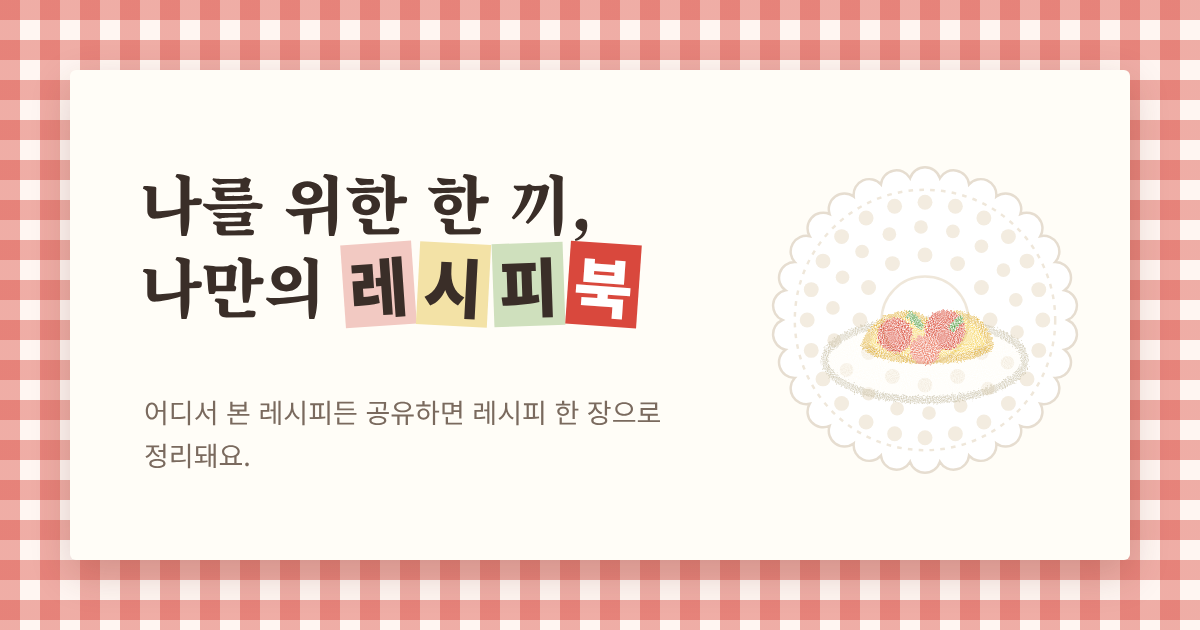
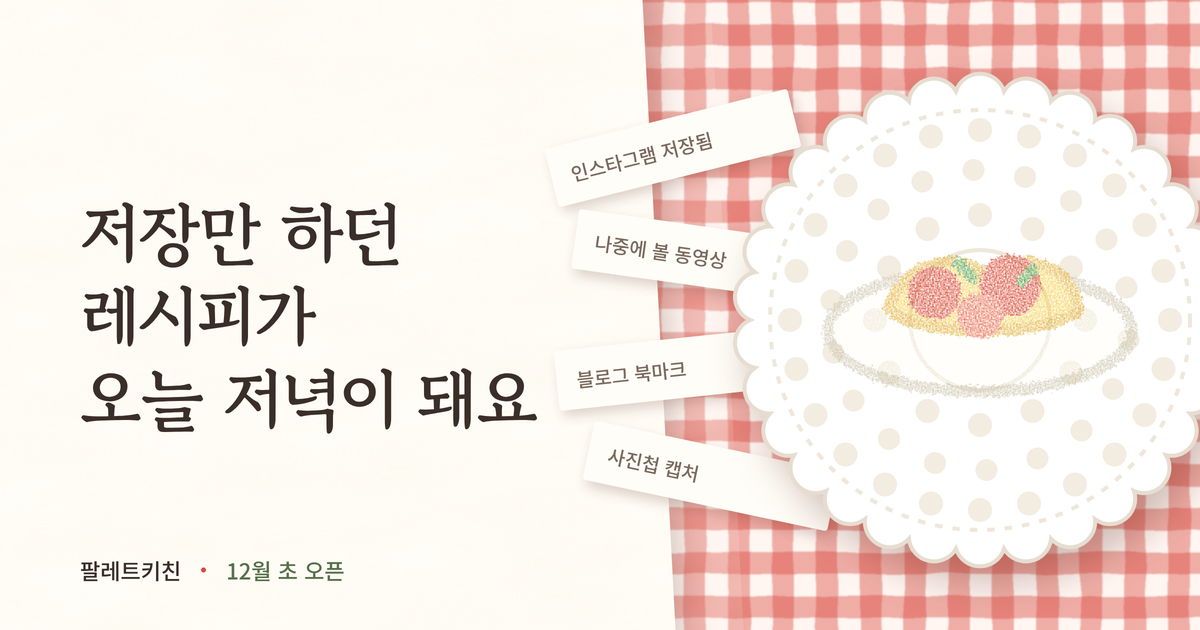
미리보기 이미지와 미리보기 문구 수정

diff --git a/index.html b/index.html
@@ -8,10 +8,10 @@
     <meta property="og:type" content="website" />
     <meta property="og:site_name" content="팔레트키친" />
     <meta property="og:locale" content="ko_KR" />
-    <meta property="og:url" content="https://palette-kitchen.netlify.app/" />
-    <meta property="og:title" content="저장한 레시피를 한곳에, 팔레트키친" />
-    <meta property="og:description" content="어디서 본 레시피든 담아 두고, 먹고 싶을 때 꺼내 보세요." />
-    <meta property="og:image" content="https://palette-kitchen.netlify.app/img/og-image.png" />
+    <meta property="og:url" content="https://palette-kitchen-zeta.vercel.app/" />
+    <meta property="og:title" content="저장만 하던 레시피가 오늘 저녁이 돼요 | 팔레트키친" />
+    <meta property="og:description" content="인스타, 유튜브, 블로그, 사진첩에 저장한 레시피를 한곳에 모아요" />
+    <meta property="og:image" content="https://palette-kitchen-zeta.vercel.app/img/og-image.png?v=2" />
     <meta property="og:image:width" content="1200" />
     <meta property="og:image:height" content="630" />
     <meta name="twitter:card" content="summary_large_image" />
